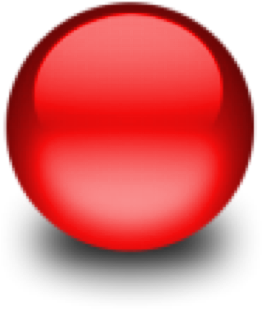
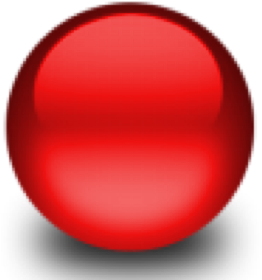
nothing to commit

diff --git a/MyNetworkMonitor/MainWindow.xaml b/MyNetworkMonitor/MainWindow.xaml
@@ -113,10 +113,10 @@
                 <CheckBox x:Name="chk_Methodes_ScanUDPPorts" Content="UDP Ports" Grid.Column="5" HorizontalAlignment="Center" Width="82" VerticalContentAlignment="Center" VerticalAlignment="Center" Height="15"/>
 
 
-                <TextBox x:Name="tb_IP_Address" Grid.Column="8" TextWrapping="Wrap" VerticalAlignment="Center" Height="20" Margin="1,0,9,0"/>
+                <TextBox x:Name="tb_IP_Address" Grid.Column="8" TextWrapping="Wrap" VerticalAlignment="Center" Height="20" Margin="10,0,9,0"/>
                 <TextBox x:Name="tb_TCPPorts" Grid.Column="9" TextWrapping="Wrap" VerticalAlignment="Center" Height="20" Margin="7,0,10,0"/>
                 <TextBox x:Name="tb_UDPPorts" Grid.Column="10" TextWrapping="Wrap" VerticalAlignment="Center" Height="20" Margin="10,0,10,0"/>
-                <Button x:Name="bt_ScanIP" Click="bt_ScanIP_Click"   Content="Scan Selected IP" Grid.Column="11" VerticalAlignment="Center" Height="20" Margin="16,0,0,0" HorizontalAlignment="Left" Width="101" />
+                <Button x:Name="bt_ScanIP" Click="bt_ScanIP_Click"   Content="Scan Selected IP" Grid.Column="8" VerticalAlignment="Center" Height="20" Margin="10,0,0,0" HorizontalAlignment="Left" Width="463" Grid.Row="1" Grid.ColumnSpan="4" />
 
 
                 <CheckBox x:Name="chk_Methodes_ARP_A" Content="arp -a" Margin="10,0,0,0" HorizontalAlignment="Left" Width="54" Grid.Column="6" VerticalContentAlignment="Center" VerticalAlignment="Center" Height="15"/>
@@ -180,15 +180,18 @@
                 <Grid.ColumnDefinitions>
                     <ColumnDefinition Width="171"/>
                     <ColumnDefinition Width="162"/>
+                    <ColumnDefinition Width="645"/>
                     <ColumnDefinition/>
-                    <ColumnDefinition Width="142"/>
-                    <ColumnDefinition Width="115"/>
-                    <ColumnDefinition Width="251"/>
+                    <ColumnDefinition Width="140"/>
+                    <ColumnDefinition Width="100"/>
+                    <ColumnDefinition Width="117"/>
+                    <ColumnDefinition Width="134"/>
                 </Grid.ColumnDefinitions>
-                <Label Grid.Column="3" Content="IP-Address" HorizontalAlignment="Left" VerticalAlignment="Center" Width="91" Height="25" Margin="10,0,0,0"/>
-                <Label Grid.Column="4" Content="TCP-Ports" HorizontalAlignment="Left" Margin="10,-2,0,0" VerticalAlignment="Top" Height="26" Width="82"/>
-                <Label Grid.Column="5" Content="UDP-Ports" HorizontalAlignment="Left" Margin="10,0,0,0" VerticalAlignment="Center" Height="25" Width="65"/>
+                <Label Grid.Column="4" Content="IP / Hostname.domain" VerticalAlignment="Center" Height="25" Margin="7,0,16,0"/>
+                <Label Grid.Column="5" Content="TCP-Ports" HorizontalAlignment="Center" Margin="0,-2,0,0" VerticalAlignment="Top" Height="26" Width="82"/>
+                <Label Grid.Column="6" Content="UDP-Ports" HorizontalAlignment="Left" Margin="10,0,0,0" VerticalAlignment="Center" Height="25" Width="65"/>
                 <Label Content="Methodes to find Device:" Grid.Column="0" Margin="10,0,0,1" HorizontalAlignment="Left" Width="147"/>
+                <Label Grid.Column="7" Content="Diff. DNS Server" HorizontalAlignment="Left" Margin="10,0,0,0" VerticalAlignment="Center" Width="103"/>
             </Grid>
         </Grid>
 

diff --git a/MyNetworkMonitor/Properties/Resources.Designer.cs b/MyNetworkMonitor/Properties/Resources.Designer.cs
@@ -63,6 +63,16 @@ namespace MyNetworkMonitor.Properties {
         /// <summary>
         ///   Looks up a localized resource of type System.Byte[].
         /// </summary>
+        internal static byte[] gray_dot {
+            get {
+                object obj = ResourceManager.GetObject("gray_dot", resourceCulture);
+                return ((byte[])(obj));
+            }
+        }
+        
+        /// <summary>
+        ///   Looks up a localized resource of type System.Byte[].
+        /// </summary>
         internal static byte[] green_dot {
             get {
                 object obj = ResourceManager.GetObject("green_dot", resourceCulture);
